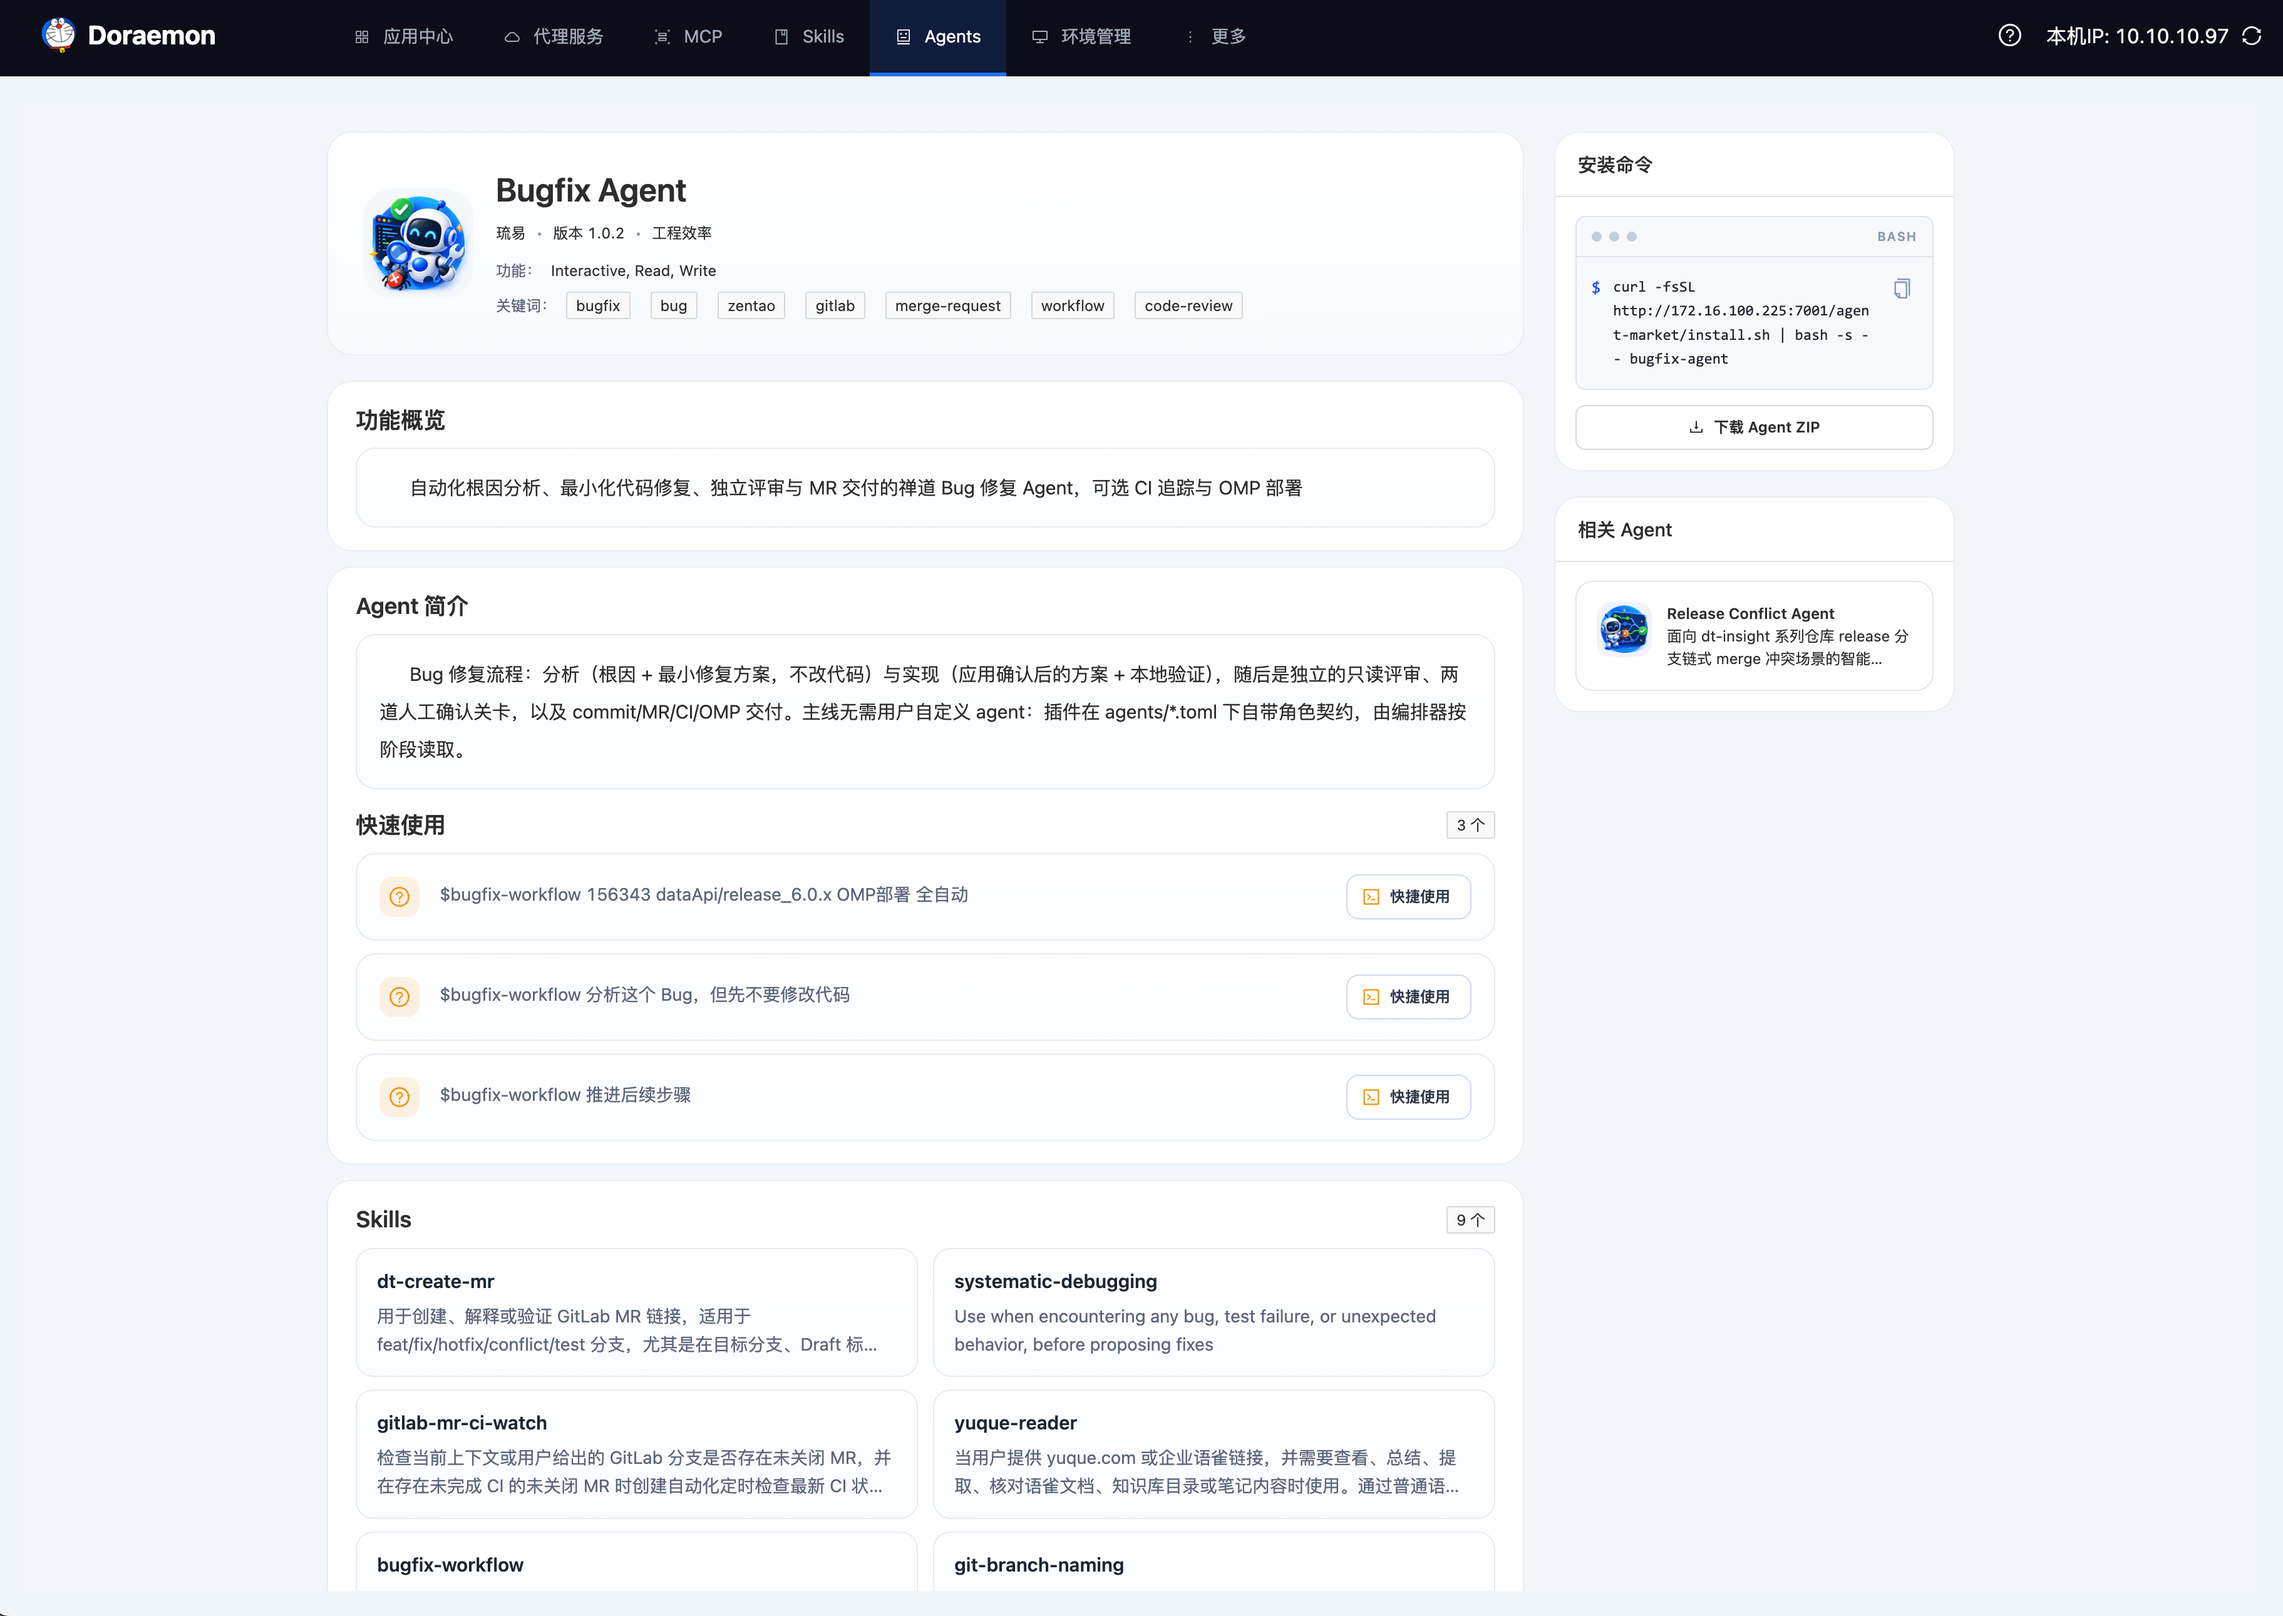
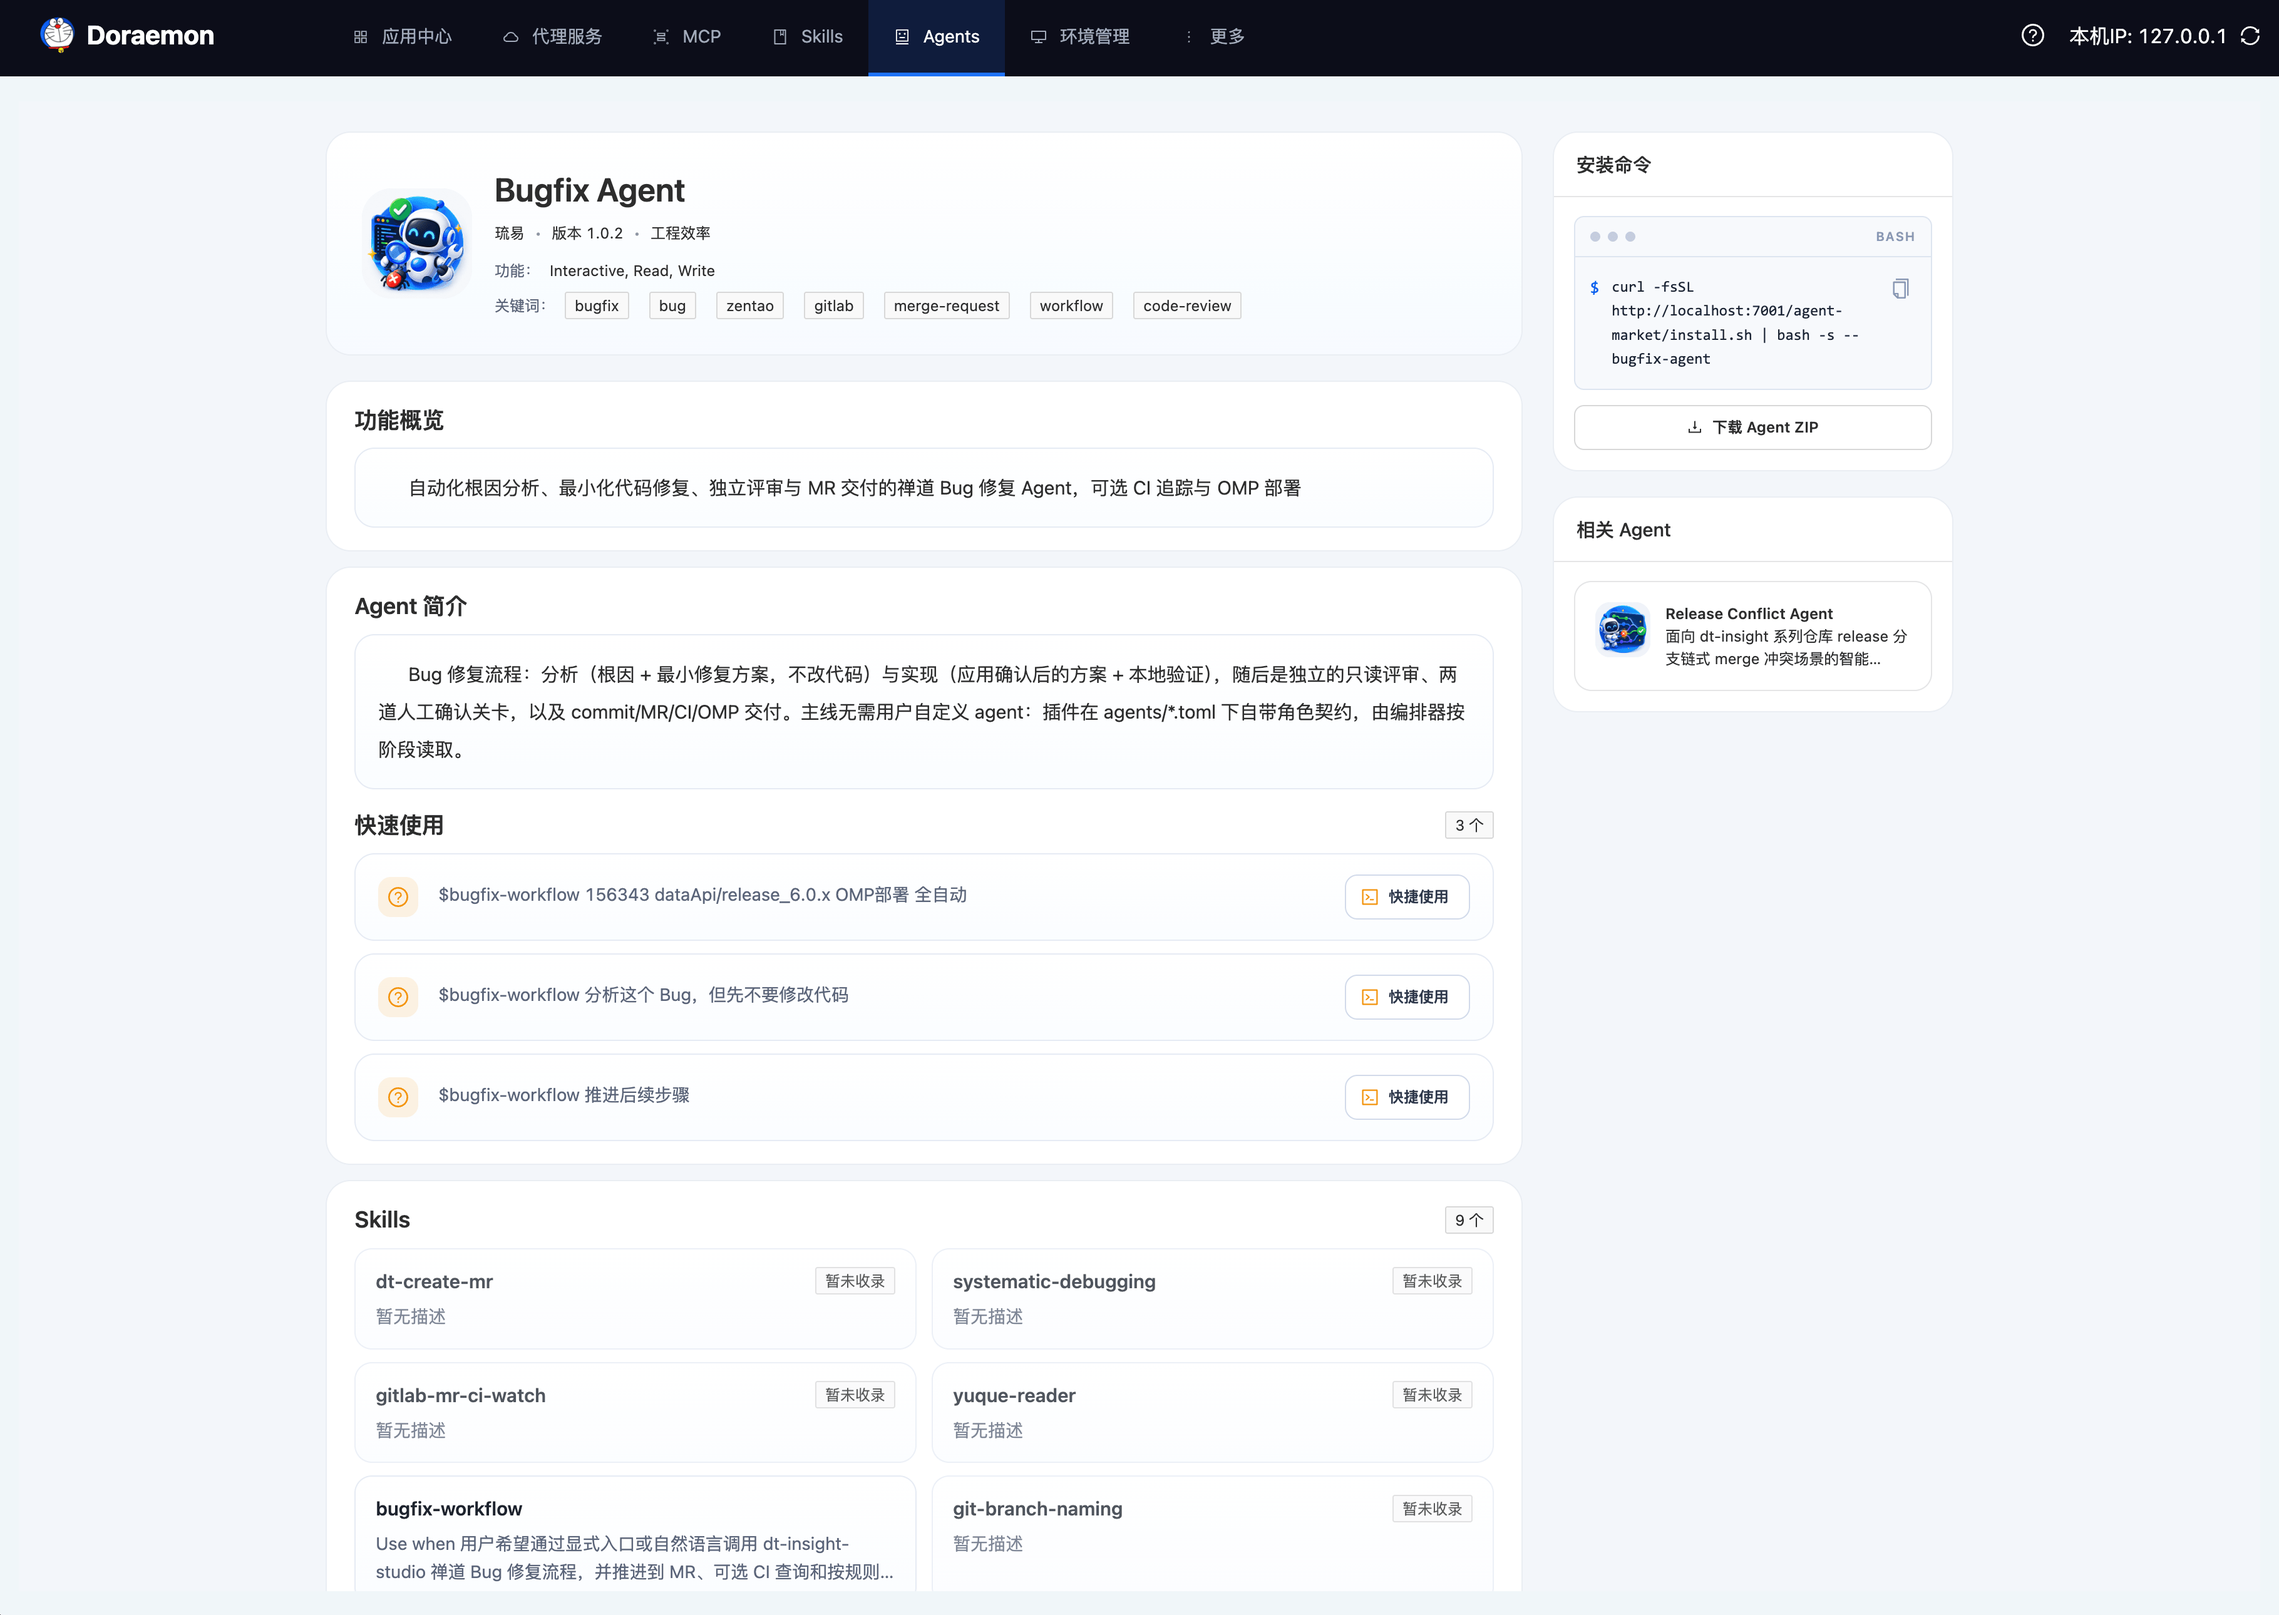
feat: restore skills count on card

diff --git a/app/service/agents.js b/app/service/agents.js
@@ -759,7 +759,12 @@ class AgentsService extends Service {
         }
     }
 
-    toAgentListItem(row) {
+    toAgentListItem(row, skillCount = 0) {
+        const resolvedSkillCount =
+            skillCount !== undefined && skillCount !== null
+                ? Number(skillCount)
+                : Number(row.skillCount || 0);
+
         return {
             name: row.name,
             displayName: row.display_name,
@@ -768,8 +773,13 @@ class AgentsService extends Service {
             category: row.category || '通用',
             tags: this.parseJsonArray(row.tags),
             version: row.version || '',
-            updatedAt: row.updated_at ? row.updated_at.toISOString() : '',
+            updatedAt: row.updated_at
+                ? typeof row.updated_at === 'string'
+                    ? row.updated_at
+                    : row.updated_at.toISOString()
+                : '',
             logoUrl: row.logo_path ? this.buildAssetUrl(row.name, row.logo_path) : '',
+            skillCount: resolvedSkillCount,
         };
     }
 
@@ -809,7 +819,43 @@ class AgentsService extends Service {
             limit: pageSize,
         });
 
-        const list = rows.map((row) => this.toAgentListItem(row.toJSON()));
+        // 批量查询当前页 Agent 关联的 Skill 数量
+        const agentIds = rows
+            .map((row) => (row?.id ? row.id : row?.toJSON ? row.toJSON().id : undefined))
+            .filter(Boolean);
+        const skillCountMap = new Map();
+        if (agentIds.length > 0) {
+            const { AgentSkill } = this.app.model;
+            if (AgentSkill) {
+                try {
+                    const skillRows = await AgentSkill.findAll({
+                        where: { agent_id: agentIds },
+                        attributes: ['agent_id', 'skill_slug'],
+                    });
+                    const skillSetMap = new Map();
+                    skillRows.forEach((item) => {
+                        const id = item.agent_id;
+                        if (!skillSetMap.has(id)) {
+                            skillSetMap.set(id, new Set());
+                        }
+                        if (item.skill_slug) {
+                            skillSetMap.get(id).add(item.skill_slug);
+                        }
+                    });
+                    skillSetMap.forEach((set, id) => {
+                        skillCountMap.set(id, set.size);
+                    });
+                } catch (error) {
+                    this.app.logger?.warn?.(`[agents] 查询 Agent 技能统计失败: ${error.message}`);
+                }
+            }
+        }
+
+        const list = rows.map((row) => {
+            const rowData = row.toJSON ? row.toJSON() : row;
+            const skillCount = skillCountMap.get(rowData.id) || 0;
+            return this.toAgentListItem(rowData, skillCount);
+        });
 
         return {
             list,
@@ -908,6 +954,7 @@ class AgentsService extends Service {
             logoUrl: detail.logo_path ? this.buildAssetUrl(detail.name, detail.logo_path) : '',
             updatedAt: detail.updated_at ? detail.updated_at.toISOString() : '',
             skills,
+            skillCount: skills.length,
         };
     }
 

diff --git a/test/agent-list-layout.test.js b/test/agent-list-layout.test.js
@@ -54,3 +54,16 @@ test('Agent 列表页提供帮助文档入口并读取独立配置', () => {
     assert.equal(content.includes('config.agentHelpDocUrl'), true, '应读取 Agent 独立帮助文档配置');
     assert.equal(content.includes('title="Agent 市场帮助文档"'), true, '应提供帮助文档提示文案');
 });
+
+test('Agent 列表卡片底部展示版本号与 Skills 数量', () => {
+    const content = fs.readFileSync(
+        path.join(__dirname, '../app/web/pages/agents/index.tsx'),
+        'utf8'
+    );
+
+    assert.equal(
+        content.includes('Skills {agent.skillCount ?? 0}个'),
+        true,
+        '列表卡片底部右侧应展示 Skills 数量'
+    );
+});

diff --git a/app/web/pages/agents/index.tsx b/app/web/pages/agents/index.tsx
@@ -318,6 +318,7 @@ const AgentMarket: React.FC<AgentMarketProps> = ({ history }) => {
 
                                 <div className="agent-card-footer">
                                     <Text type="secondary">版本 {agent.version || '-'}</Text>
+                                    <Text type="secondary">Skills {agent.skillCount ?? 0}个</Text>
                                 </div>
                             </Card>
                         ))}

diff --git a/app/web/pages/agents/types.ts b/app/web/pages/agents/types.ts
@@ -29,6 +29,7 @@ export interface AgentItem {
     version: string;
     updatedAt: string;
     logoUrl: string;
+    skillCount?: number;
 }
 
 export interface AgentListResponse {
